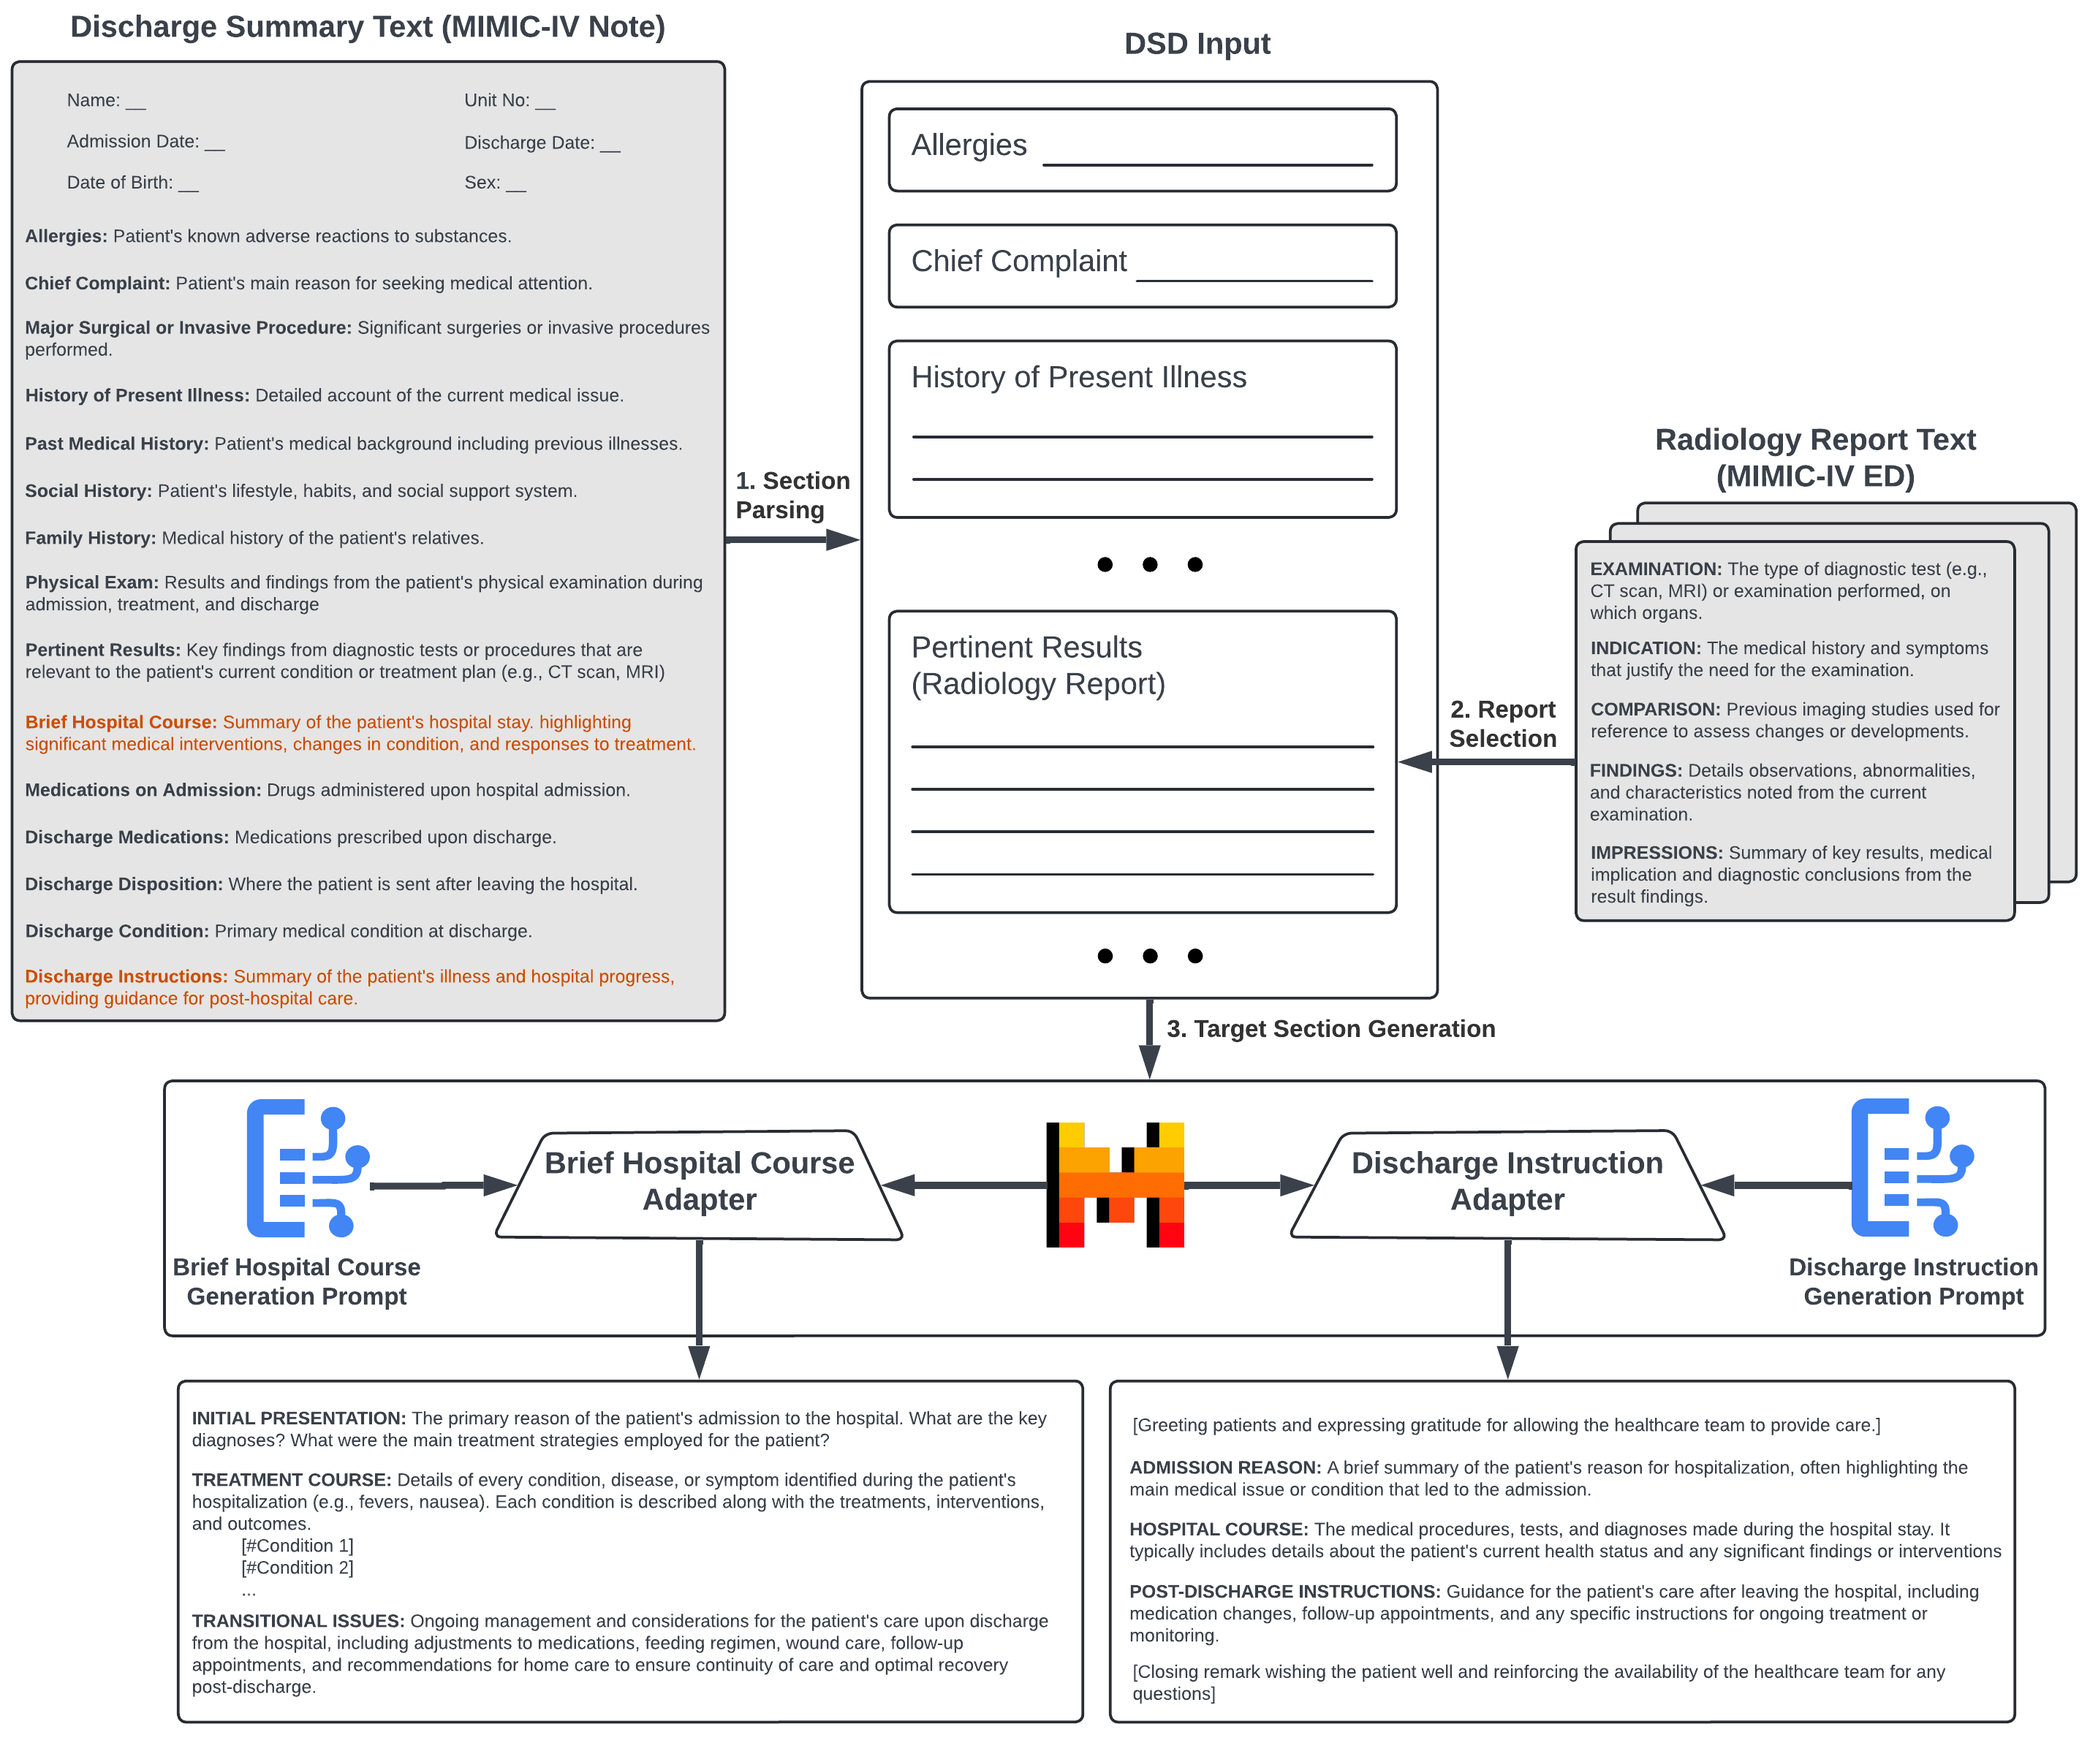
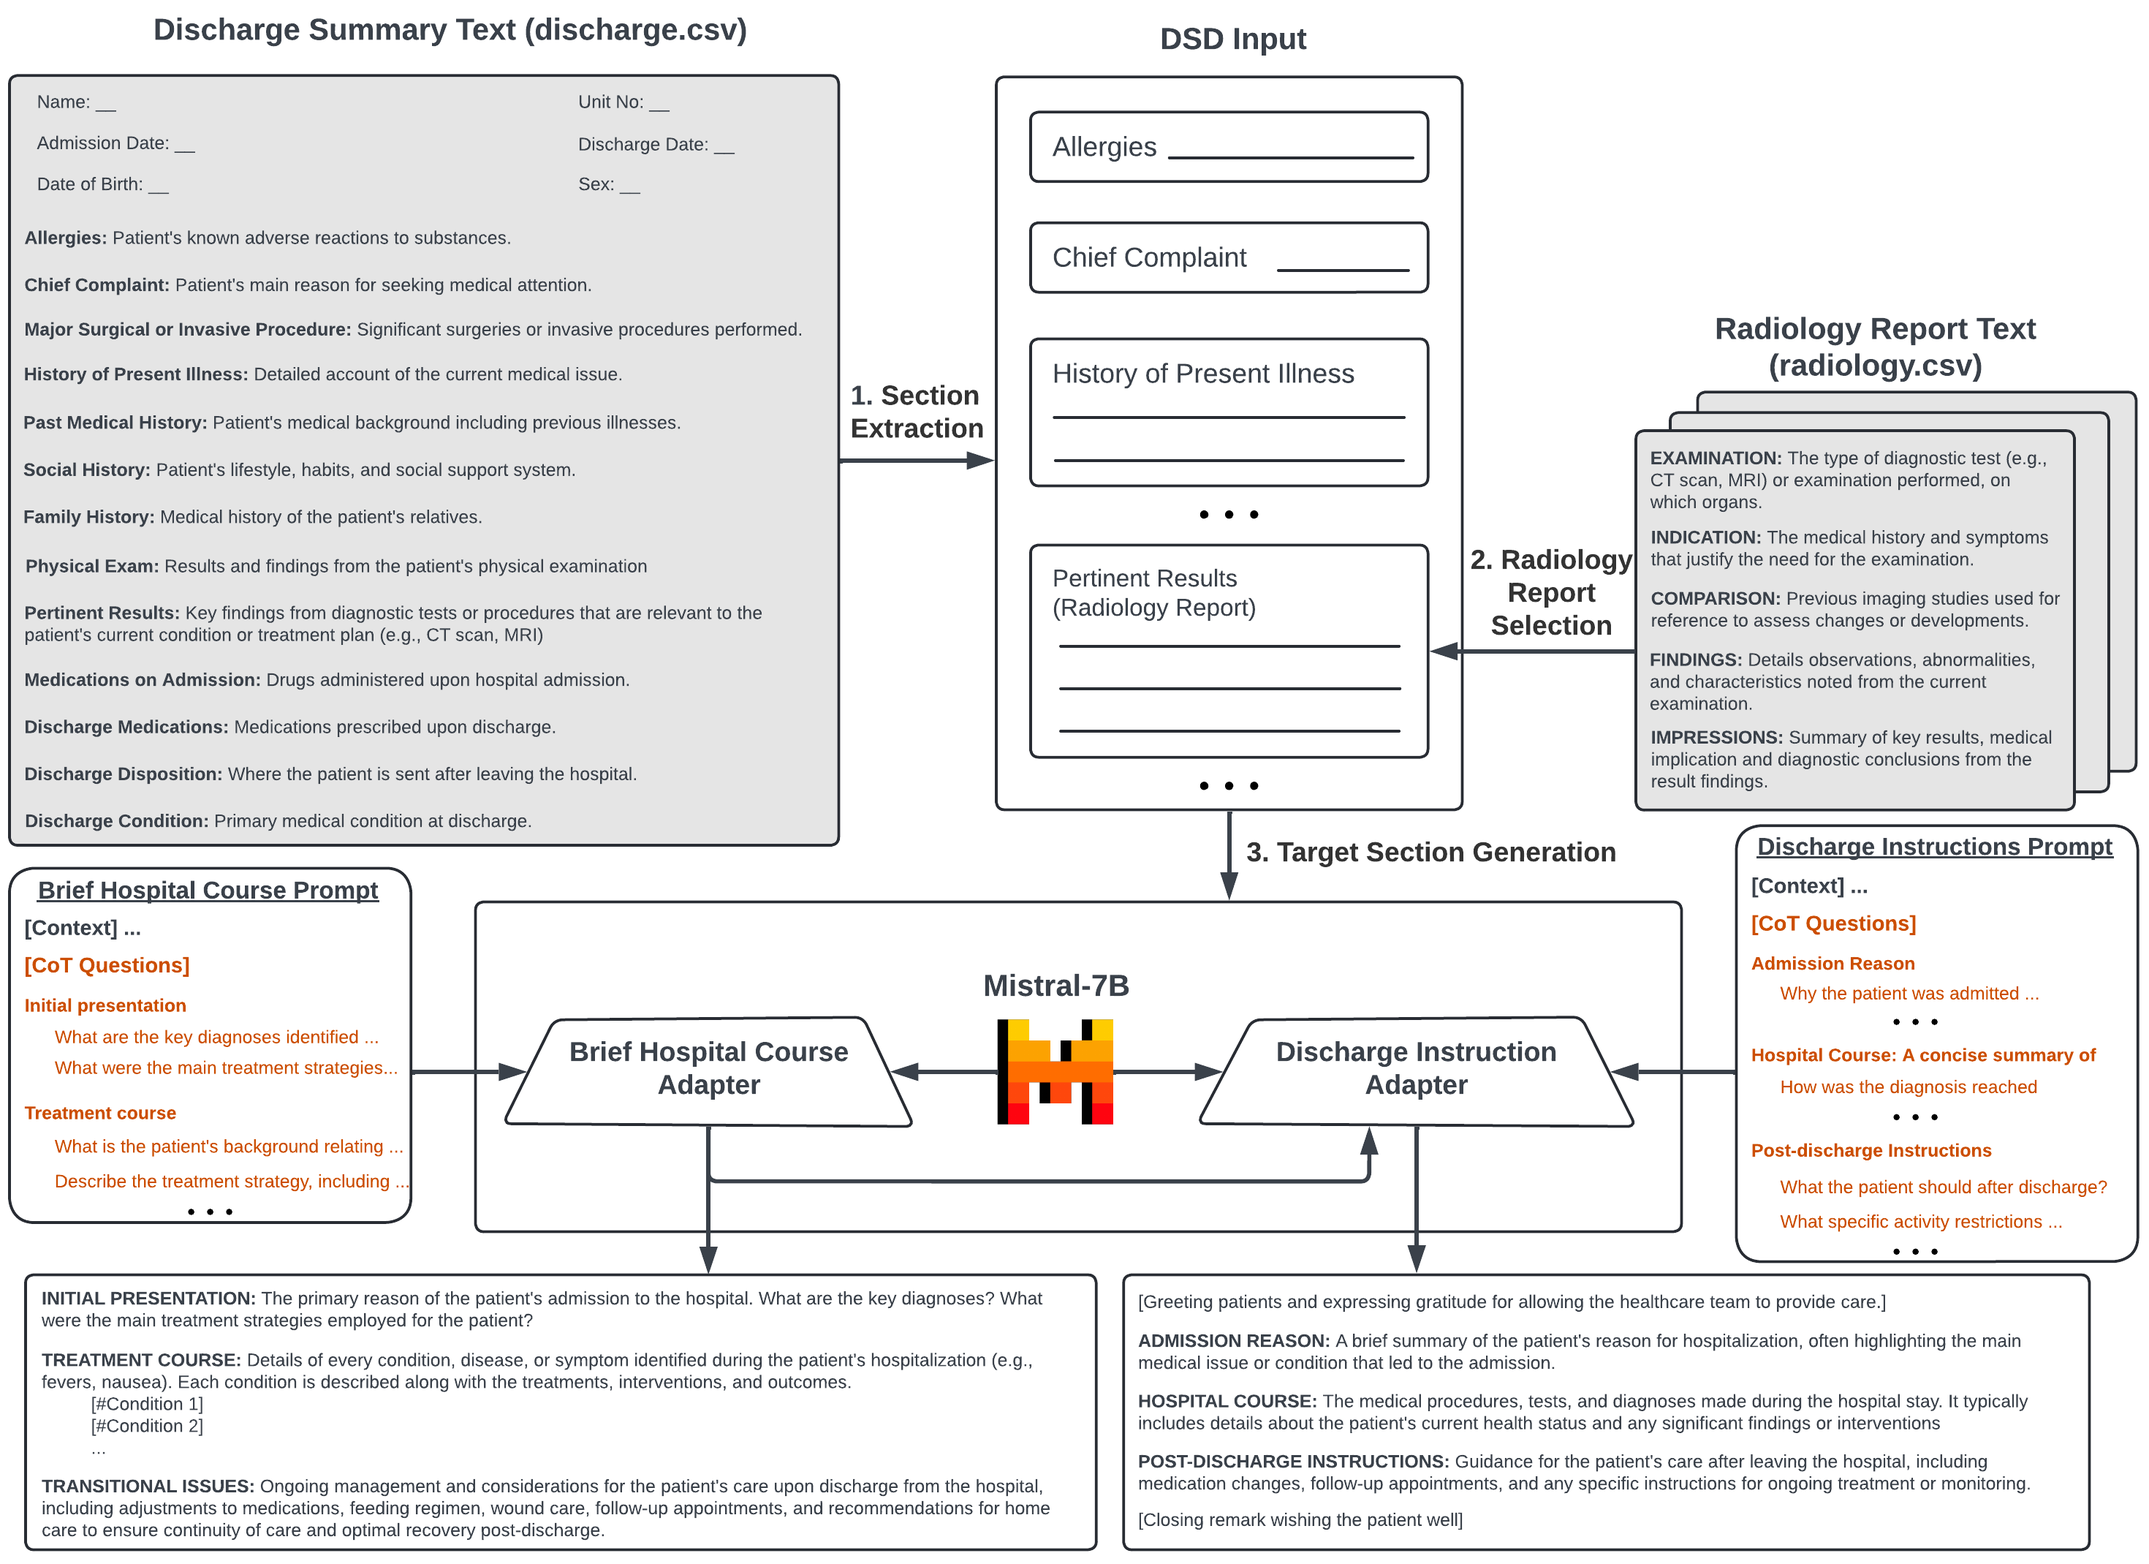
Update README

Changed region(s): [[0.0, 0.0, 0.9962, 1.0]]

diff --git a/README.md b/README.md
@@ -34,5 +34,61 @@ For other versions, please visit: [https://pytorch.org/get-started/locally/](htt
 ## Framework
 ![Model architecture](Discharge_LLM_Diagram.png)
 We propose a pipeline framework, namely Discharge-LLM for the Discharge Summary Documentation task, which generates the two critical 'Brief Hospital Course' and 'Discharge Instructions' sections in the discharge summary. 
+The above figure illustrates Discharge-LLM framework. 
+Given a discharge summary containing various sections and clinical notes from EHR (e.g. progress notes, consult notes, test results), 
+Discharge-LLM applies three steps for generating Brief Hospital Course and Discharge Instructions:
+- **Stage 1: Section Extraction**
+- **Stage 2: Radiology Report Selection**
+- **Stage 3: Target Section Generation**
+
+## Inference
+### Hosting an instruction-finetuned Mistral LLM for Target Section Generation
+We used [FastChat](https://github.com/lm-sys/FastChat/tree/main) to host a Mistral LLMs for prompted generation of the two critical target sections of discharge summaries.
+FastChat provides OpenAI-compatible APIs for its supported models, so you can use FastChat as a local drop-in replacement for OpenAI APIs.
+The FastChat server is compatible with both [openai-python](https://github.com/openai/openai-python) library and cURL commands.
+
+**Note:** *Mistrial-7B-Instruct-v0.2 is used as the LLMs for the generation tasks. This model requires around 6GB of GPU memory.
+For more information to reduce memory requirement or instruction to run on other architectures, please refer to [link](https://github.com/lm-sys/FastChat/tree/main?tab=readme-ov-file#inference-with-command-line-interface)*
+
+First, launch the controller
+```bash
+python3 -m fastchat.serve.controller
+```
+
+Then, launch the model worker(s)
+
+```bash
+# For Brief Hospital Course
+python3 -m fastchat.serve.model_worker \
+  --model-path quangantang/Mistral-7B-Instruct-v0.2-GPTQ-Brief-Hospital-Course \ 
+  --gptq-wbits 4 \
+  --gptq-groupsize 128 \
+  --controller http://localhost:21001 \
+  --port 31000 \
+  --worker http://localhost:31000
+  --host 0.0.0.0
+```
+
+```bash
+# For Discharge Instructions
+python3 -m fastchat.serve.model_worker \
+  --model-path quangantang/Mistral-7B-Instruct-v0.2-GPTQ-Discharge-Instructions \ 
+  --gptq-wbits 4 \
+  --gptq-groupsize 128 \
+  --controller http://localhost:21001 \
+  --port 31001 \
+  --worker http://localhost:31001
+  --host 0.0.0.0
+```
+
+The pretrained checkpoints can be accessed on Huggingface Hub via:
+- https://huggingface.co/quangantang/Mistral-7B-Instruct-v0.2-GPTQ-Brief-Hospital-Course
+- https://huggingface.co/quangantang/Mistral-7B-Instruct-v0.2-GPTQ-Discharge-Instructions
+
+Finally, launch the RESTful API server
+
+```bash
+python3 -m fastchat.serve.openai_api_server --host localhost --port 8000
+```
 
 # More code to release soon.
